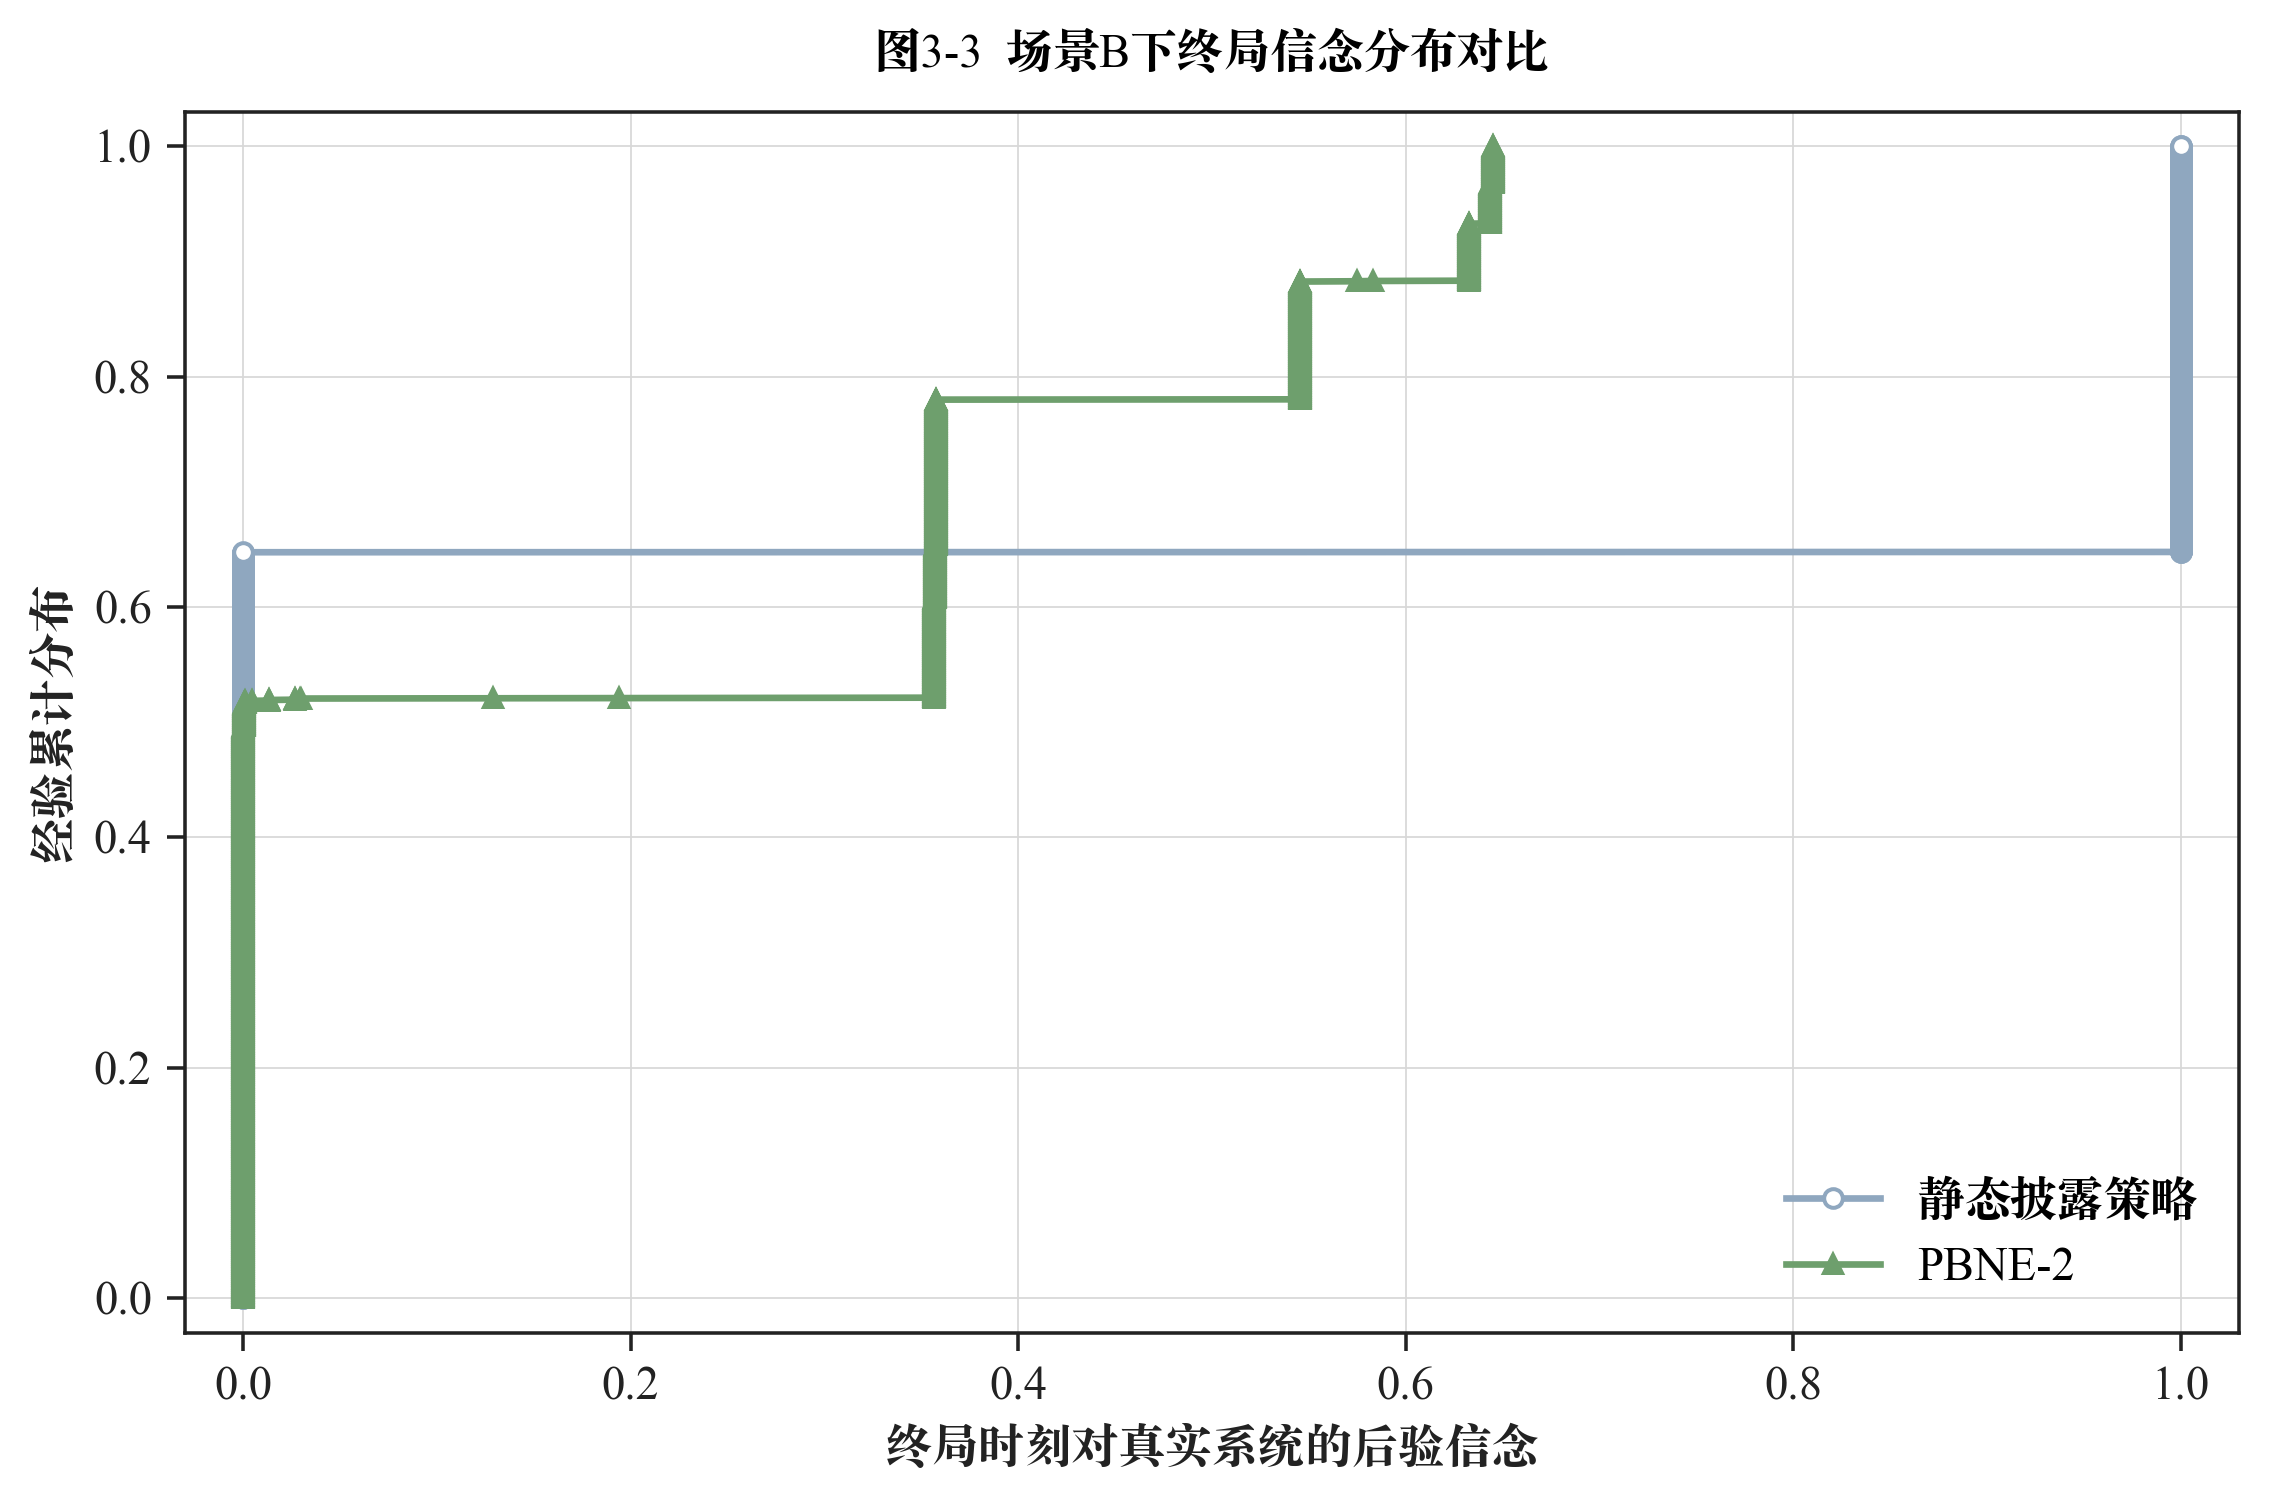
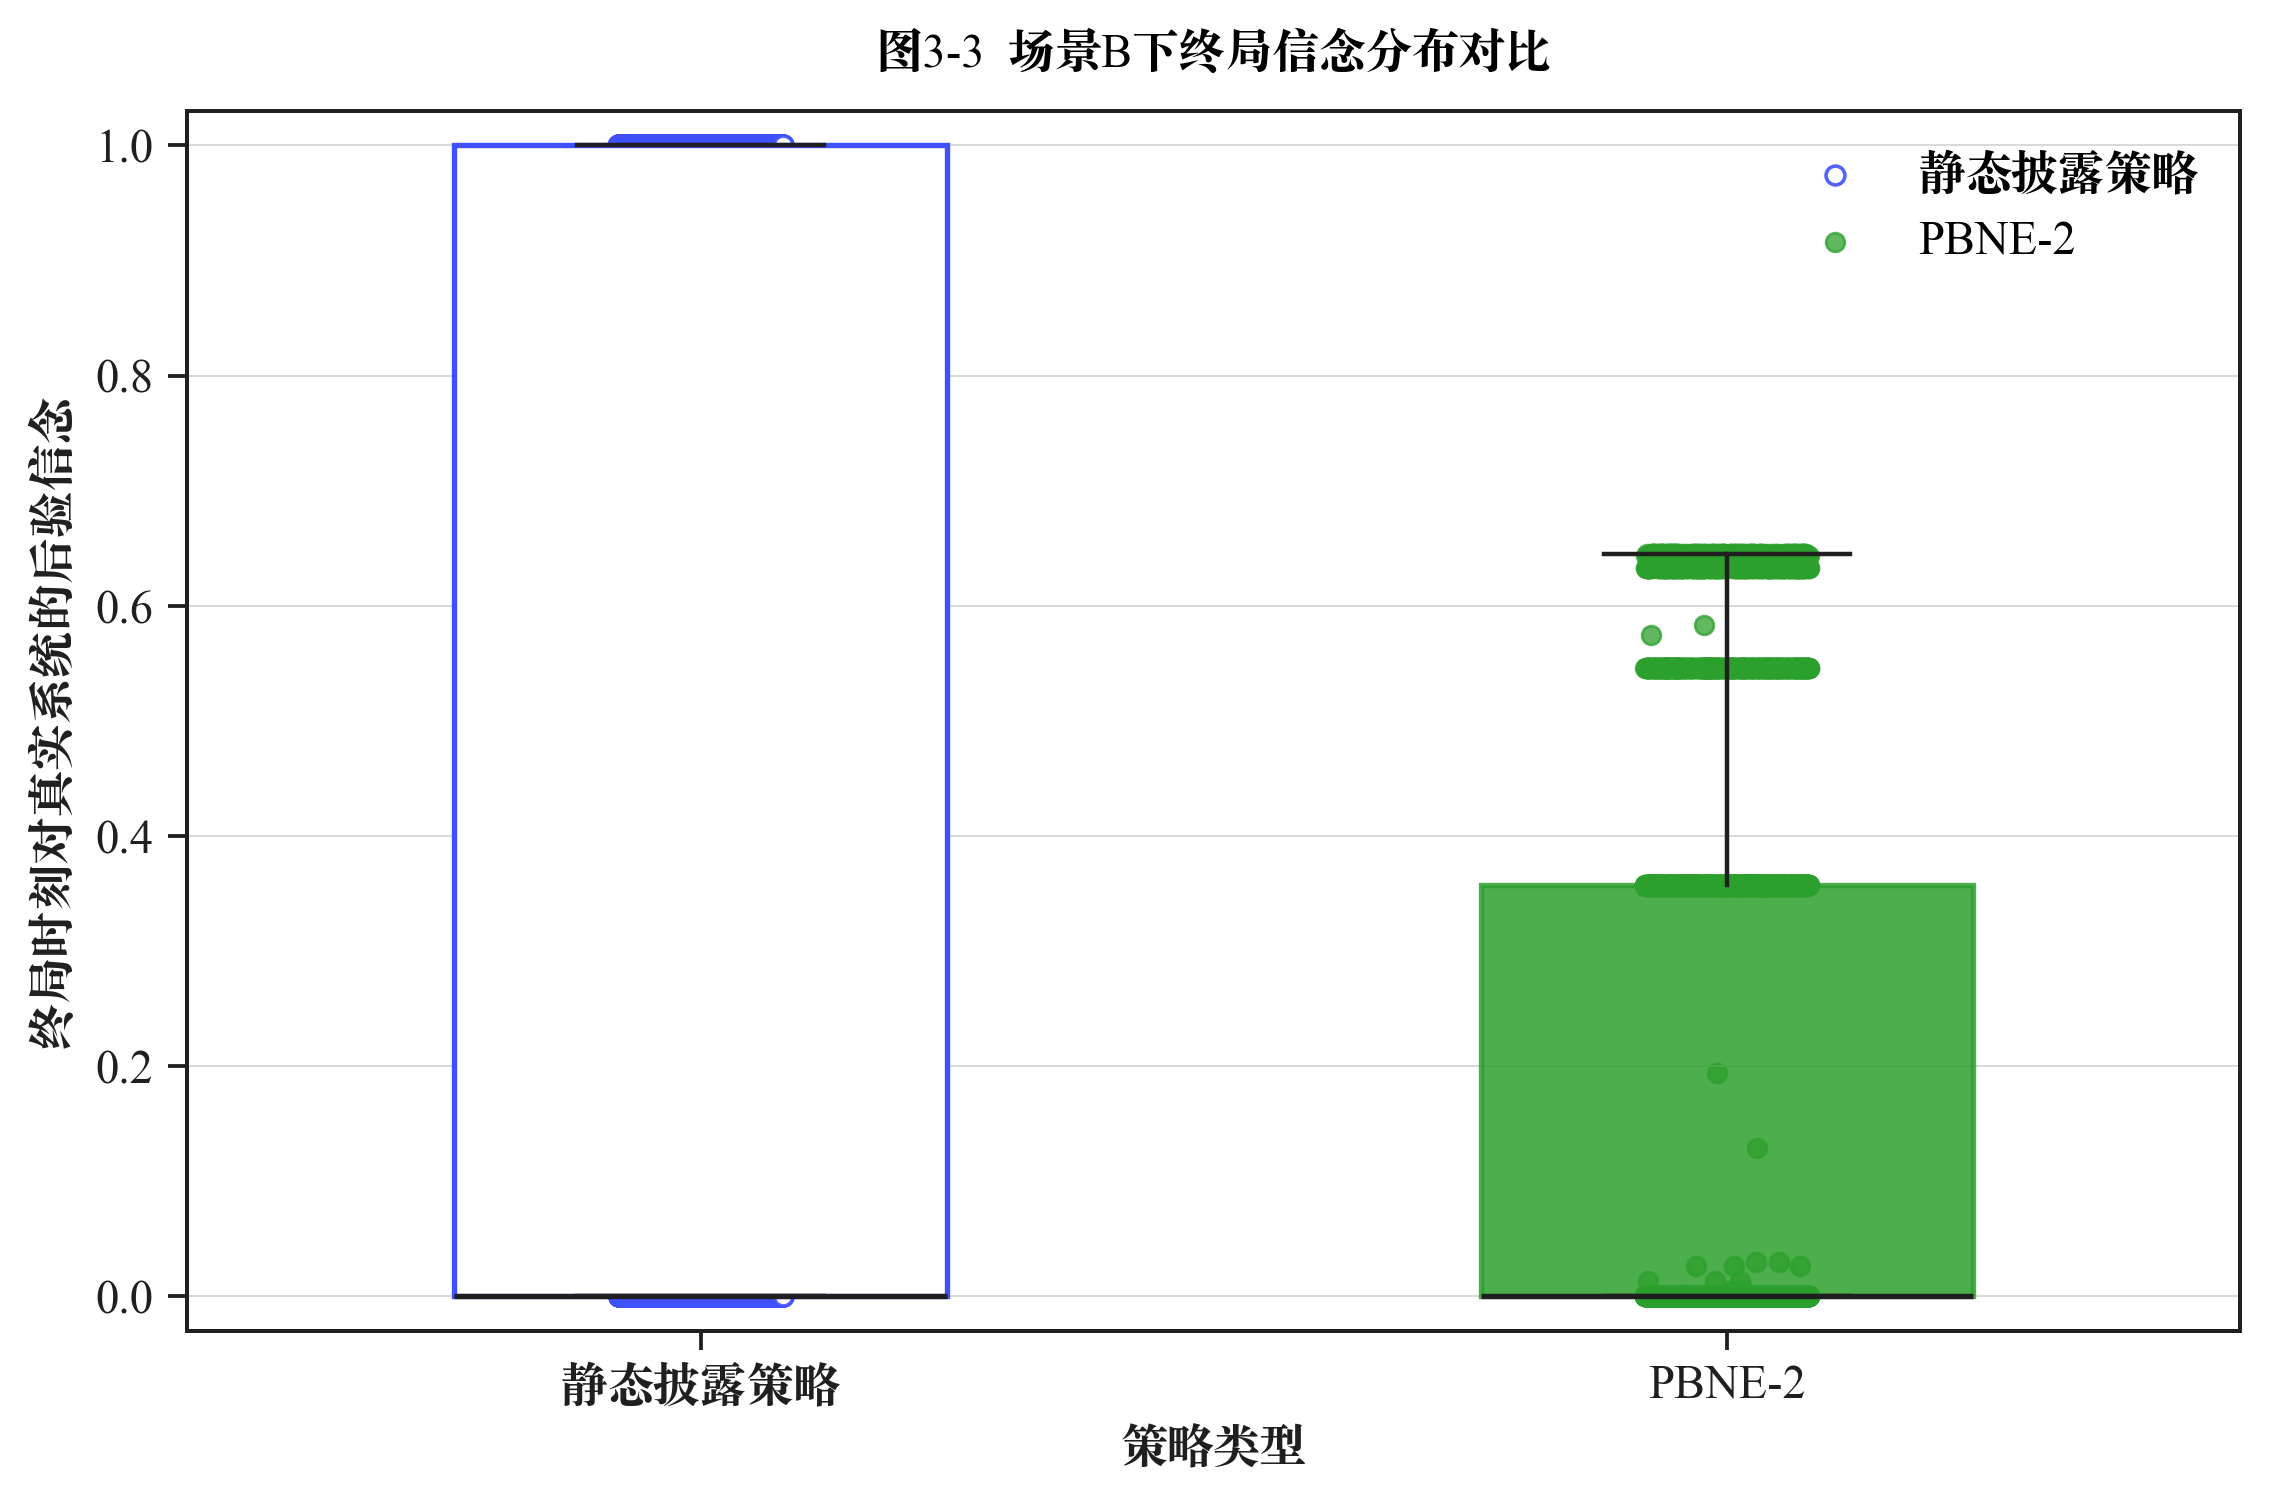
Refine chapter 3 figure styling

diff --git a/sg_deception_simulation/plot_results.py b/sg_deception_simulation/plot_results.py
@@ -19,11 +19,12 @@ RESULTS_DIR = Path("sg_deception_simulation/results")
 FIGURES_DIR = RESULTS_DIR / "figures"
 FONT_CN = None
 FONT_EN = None
-COLOR_BASELINE = "#8FA7BF"
-COLOR_PBNE = "#C97C5D"
-COLOR_PBNE_ALT = "#6E9F6D"
-COLOR_GRID = "#D8D8D8"
-COLOR_TEXT = "#222222"
+COLOR_BASELINE = "#3F51FF"
+COLOR_PBNE = "#FF4D4F"
+COLOR_PBNE_ALT = "#2CA02C"
+COLOR_ACCENT = "#F5A623"
+COLOR_GRID = "#D9D9D9"
+COLOR_TEXT = "#1F1F1F"
 
 
 def configure_matplotlib() -> None:
@@ -40,10 +41,10 @@ def configure_matplotlib() -> None:
     matplotlib.rcParams["figure.dpi"] = 160
     matplotlib.rcParams["savefig.dpi"] = 320
     matplotlib.rcParams["axes.edgecolor"] = COLOR_TEXT
-    matplotlib.rcParams["axes.linewidth"] = 0.8
+    matplotlib.rcParams["axes.linewidth"] = 0.9
     matplotlib.rcParams["grid.color"] = COLOR_GRID
     matplotlib.rcParams["grid.linestyle"] = "-"
-    matplotlib.rcParams["grid.linewidth"] = 0.4
+    matplotlib.rcParams["grid.linewidth"] = 0.45
     matplotlib.rcParams["legend.frameon"] = False
     matplotlib.rcParams["axes.facecolor"] = "white"
     matplotlib.rcParams["figure.facecolor"] = "white"
@@ -52,14 +53,14 @@ def configure_matplotlib() -> None:
     matplotlib.rcParams["axes.labelcolor"] = COLOR_TEXT
     matplotlib.rcParams["xtick.color"] = COLOR_TEXT
     matplotlib.rcParams["ytick.color"] = COLOR_TEXT
-    matplotlib.rcParams["lines.markersize"] = 4
-    matplotlib.rcParams["lines.linewidth"] = 1.4
+    matplotlib.rcParams["lines.markersize"] = 4.2
+    matplotlib.rcParams["lines.linewidth"] = 1.5
 
 
 def apply_academic_axes_style(ax, x_font=None, y_font=None) -> None:
     ax.spines["top"].set_visible(True)
     ax.spines["right"].set_visible(True)
-    ax.tick_params(direction="out", length=4, width=0.8, colors=COLOR_TEXT)
+    ax.tick_params(direction="out", length=4.2, width=0.85, colors=COLOR_TEXT)
     x_font = x_font or FONT_EN
     y_font = y_font or FONT_EN
     for label in ax.get_xticklabels():
@@ -99,11 +100,11 @@ def plot_academic_line(
         label=label,
         linestyle=linestyle,
         marker=marker,
-        markersize=4.2,
+        markersize=4.6,
         markerfacecolor="white" if hollow else color,
         markeredgecolor=color,
-        markeredgewidth=0.9,
-        linewidth=1.5,
+        markeredgewidth=1.0,
+        linewidth=1.6,
     )[0]
 
 
@@ -125,31 +126,34 @@ def plot_scenario_utility(feasible: dict) -> None:
     ]
 
     x = np.arange(len(scenario_labels))
+    width = 0.32
     plt.figure(figsize=(7.2, 4.6))
     ax = plt.gca()
     ax.grid(axis="y")
-    line1 = plot_academic_line(
-        ax,
-        x,
+    bars1 = ax.bar(
+        x - width / 2,
         baseline_values,
-        color=COLOR_BASELINE,
+        width=width,
+        color="white",
+        edgecolor=COLOR_BASELINE,
+        linewidth=1.4,
         label="静态披露策略",
-        marker="o",
-        hollow=True,
     )
-    line2 = plot_academic_line(
-        ax,
-        x,
+    bars2 = ax.bar(
+        x + width / 2,
         pbne_values,
+        width=width,
         color=COLOR_PBNE,
+        alpha=0.88,
+        edgecolor=COLOR_PBNE,
+        linewidth=1.0,
         label="适用PBNE伪装策略",
-        marker="s",
-        linestyle="--",
     )
 
-    for xpos, y in zip(x, baseline_values):
-        plt.text(
-            xpos,
+    for bar in bars1:
+        y = bar.get_height()
+        ax.text(
+            bar.get_x() + bar.get_width() / 2,
             y + 0.08,
             f"{y:.2f}",
             ha="center",
@@ -157,13 +161,14 @@ def plot_scenario_utility(feasible: dict) -> None:
             fontproperties=FONT_EN,
             fontsize=10.0,
         )
-    for xpos, y in zip(x, pbne_values):
-        plt.text(
-            xpos,
-            y - 0.18,
+    for bar in bars2:
+        y = bar.get_height()
+        ax.text(
+            bar.get_x() + bar.get_width() / 2,
+            y + 0.08,
             f"{y:.2f}",
             ha="center",
-            va="top",
+            va="bottom",
             fontproperties=FONT_EN,
             fontsize=10.0,
         )
@@ -175,7 +180,7 @@ def plot_scenario_utility(feasible: dict) -> None:
     plt.ylabel("防御者期望效用", fontproperties=FONT_CN, fontsize=10.5)
     plt.xlabel("实验场景", fontproperties=FONT_CN, fontsize=10.5)
     plt.title("图3-1  不同场景下防御者期望效用对比", fontproperties=FONT_CN, fontsize=10.5, pad=10)
-    plt.legend(handles=[line1, line2], loc="best", prop=FONT_CN, fontsize=10.0)
+    plt.legend(loc="best", prop=FONT_CN, fontsize=10.0)
     apply_academic_axes_style(ax, x_font=FONT_CN, y_font=FONT_EN)
     save_figure("fig3_1_defender_utility_comparison.png")
 
@@ -214,8 +219,8 @@ def plot_belief_trajectories(feasible: dict) -> None:
         pbne_lower = np.array(pbne_q50) - np.array(pbne_q25)
         pbne_upper = np.array(pbne_q75) - np.array(pbne_q50)
 
-        ax.fill_between(stages, baseline_q25, baseline_q75, color=COLOR_BASELINE, alpha=0.12, linewidth=0)
-        ax.fill_between(stages, pbne_q25, pbne_q75, color=COLOR_PBNE, alpha=0.12, linewidth=0)
+        ax.fill_between(stages, baseline_q25, baseline_q75, color=COLOR_BASELINE, alpha=0.10, linewidth=0)
+        ax.fill_between(stages, pbne_q25, pbne_q75, color=COLOR_PBNE, alpha=0.10, linewidth=0)
         plot_academic_line(
             ax,
             stages,
@@ -253,35 +258,54 @@ def plot_final_belief_distribution(feasible: dict) -> None:
     fig, ax = plt.subplots(figsize=(7.2, 4.8))
     baseline = feasible["scenario_b_low_prior_theta1"]["results"]["truthful_baseline"]["final_beliefs"]
     pbne = feasible["scenario_b_low_prior_theta1"]["results"]["pbne_honeypot_camouflage"]["final_beliefs"]
-    baseline_x, baseline_y = empirical_cdf(baseline)
-    pbne_x, pbne_y = empirical_cdf(pbne)
+    positions = [1, 2]
+    box = ax.boxplot(
+        [baseline, pbne],
+        positions=positions,
+        widths=0.48,
+        patch_artist=True,
+        showfliers=False,
+        medianprops={"color": COLOR_TEXT, "linewidth": 1.2},
+        whiskerprops={"color": COLOR_TEXT, "linewidth": 1.0},
+        capprops={"color": COLOR_TEXT, "linewidth": 1.0},
+        boxprops={"linewidth": 1.2},
+    )
+    box["boxes"][0].set(facecolor="white", edgecolor=COLOR_BASELINE)
+    box["boxes"][1].set(facecolor=COLOR_PBNE_ALT, edgecolor=COLOR_PBNE_ALT, alpha=0.85)
 
-    plot_academic_line(
-        ax,
-        baseline_x,
-        baseline_y,
-        color=COLOR_BASELINE,
+    baseline_offsets = np.linspace(-0.08, 0.08, len(baseline))
+    pbne_offsets = np.linspace(-0.08, 0.08, len(pbne))
+    ax.scatter(
+        np.full(len(baseline), positions[0]) + baseline_offsets,
+        baseline,
+        s=18,
+        facecolors="white",
+        edgecolors=COLOR_BASELINE,
+        linewidths=0.8,
+        alpha=0.9,
         label="静态披露策略",
-        marker="o",
-        hollow=True,
     )
-    plot_academic_line(
-        ax,
-        pbne_x,
-        pbne_y,
-        color=COLOR_PBNE_ALT,
+    ax.scatter(
+        np.full(len(pbne), positions[1]) + pbne_offsets,
+        pbne,
+        s=18,
+        c=COLOR_PBNE_ALT,
+        edgecolors=COLOR_PBNE_ALT,
+        linewidths=0.6,
+        alpha=0.75,
         label="PBNE-2",
-        marker="^",
     )
 
-    plt.xlabel("终局时刻对真实系统的后验信念", fontproperties=FONT_CN, fontsize=10.5)
-    plt.ylabel("经验累计分布", fontproperties=FONT_CN, fontsize=10.5)
+    ax.set_xticks(positions)
+    ax.set_xticklabels(["静态披露策略", "PBNE-2"])
+    plt.xlabel("策略类型", fontproperties=FONT_CN, fontsize=10.5)
+    plt.ylabel("终局时刻对真实系统的后验信念", fontproperties=FONT_CN, fontsize=10.5)
     plt.title("图3-3  场景B下终局信念分布对比", fontproperties=FONT_CN, fontsize=10.5, pad=10)
-    ax.set_xlim(-0.03, 1.03)
+    ax.set_xlim(0.5, 2.5)
     ax.set_ylim(-0.03, 1.03)
-    ax.legend(loc="lower right", prop=FONT_CN, fontsize=10.0)
-    plt.grid(axis="both")
-    apply_academic_axes_style(ax, x_font=FONT_EN, y_font=FONT_EN)
+    ax.legend(loc="upper right", prop=FONT_CN, fontsize=10.0)
+    plt.grid(axis="y")
+    apply_academic_axes_style(ax, x_font=FONT_CN, y_font=FONT_EN)
     save_figure("fig3_3_final_belief_distribution.png")
 
 
